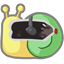
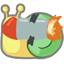
新美术

diff --git a/Scripts/Powers/FleshAberrationStrengthDownPower.cs b/Scripts/Powers/FleshAberrationStrengthDownPower.cs
@@ -1,12 +1,22 @@
 using MegaCrit.Sts2.Core.Models;
 using MegaCrit.Sts2.Core.Models.Powers;
 using STS2RitsuLib.Interop.AutoRegistration;
+using STS2RitsuLib.Scaffolding.Content;
+using STS2RitsuLib.Scaffolding.Content.Patches;
 
 namespace ComicChess.KnowledgeDemon;
 
 [RegisterPower]
-public sealed class FleshAberrationStrengthDownPower : TemporaryStrengthPower
+public sealed class FleshAberrationStrengthDownPower : TemporaryStrengthPower, IModPowerAssetOverrides
 {
+    public PowerAssetProfile AssetProfile => new(
+        IconPath: "res://KnowledgeDemon/images/powers/FLESH_ABERRATION.png",
+        BigIconPath: "res://KnowledgeDemon/images/powers/big/FLESH_ABERRATION.png");
+
+    public string? CustomIconPath => "res://KnowledgeDemon/images/powers/FLESH_ABERRATION.png";
+
+    public string? CustomBigIconPath => "res://KnowledgeDemon/images/powers/big/FLESH_ABERRATION.png";
+
     public override AbstractModel OriginModel => ModelDb.Card<FleshAberration>();
 
     protected override bool IsPositive => false;

diff --git a/Scripts/Powers/DispersedMoralePower.cs b/Scripts/Powers/DispersedMoralePower.cs
@@ -1,12 +1,21 @@
 using MegaCrit.Sts2.Core.Models;
 using MegaCrit.Sts2.Core.Models.Powers;
 using STS2RitsuLib.Interop.AutoRegistration;
+using STS2RitsuLib.Scaffolding.Content;
+using STS2RitsuLib.Scaffolding.Content.Patches;
 
 namespace ComicChess.KnowledgeDemon;
 
 [RegisterPower]
-public sealed class DispersedMoralePower : TemporaryStrengthPower
+public sealed class DispersedMoralePower : TemporaryStrengthPower, IModPowerAssetOverrides
 {
+    public PowerAssetProfile AssetProfile => new(
+        IconPath: "res://KnowledgeDemon/images/powers/DISPERSED_MORALE.png",
+        BigIconPath: "res://KnowledgeDemon/images/powers/big/DISPERSED_MORALE.png");
+
+    public string? CustomIconPath => "res://KnowledgeDemon/images/powers/DISPERSED_MORALE.png";
+    public string? CustomBigIconPath => "res://KnowledgeDemon/images/powers/big/DISPERSED_MORALE.png";
+
     public override AbstractModel OriginModel => ModelDb.Card<DispersedMorale>();
 
     protected override bool IsPositive => false;
